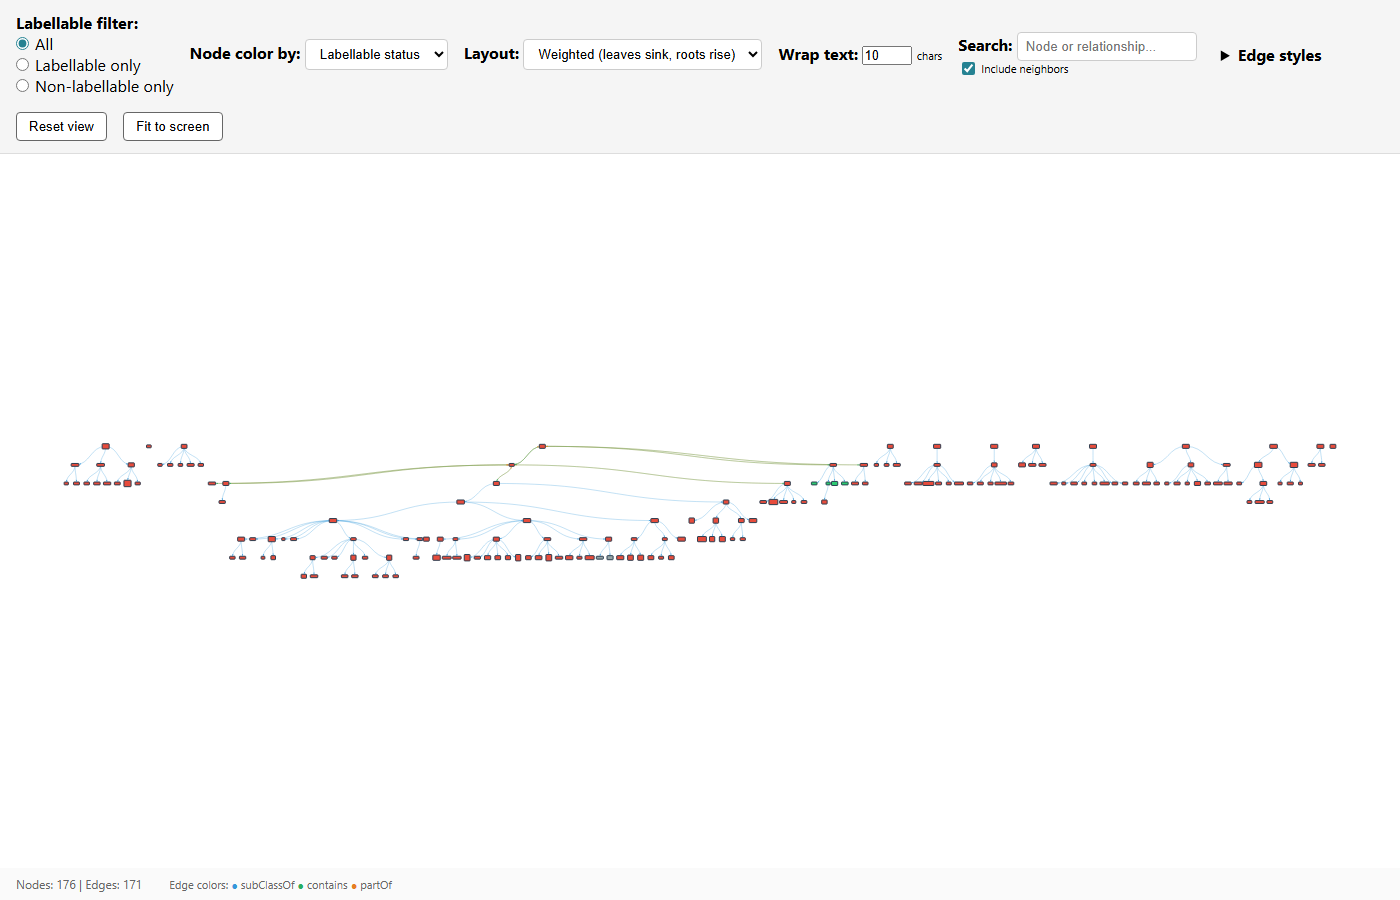
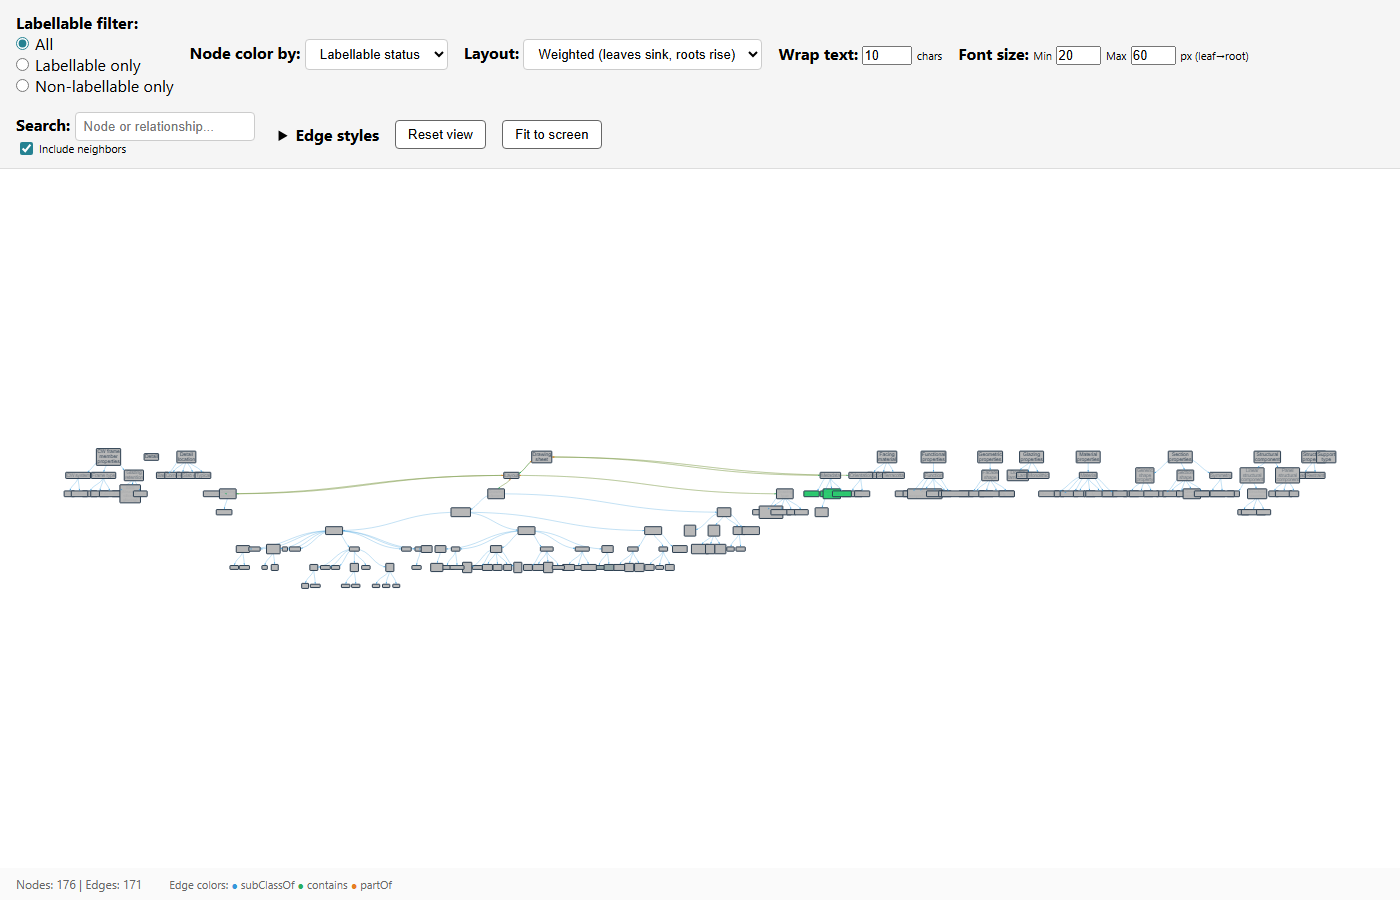
visualizer font size improvements

diff --git a/Visualizer/visualizer.html b/Visualizer/visualizer.html
@@ -66,6 +66,14 @@
             <span style="font-size: 11px;">chars</span>
         </div>
         <div>
+            <strong>Font size:</strong>
+            <span style="font-size: 11px;">Min</span>
+            <input type="number" id="minFontSize" min="8" max="96" value="20" style="width: 45px;">
+            <span style="font-size: 11px;">Max</span>
+            <input type="number" id="maxFontSize" min="8" max="96" value="60" style="width: 45px;">
+            <span style="font-size: 11px;">px (leaf→root)</span>
+        </div>
+        <div>
             <strong>Search:</strong>
             <div id="searchWrap">
                 <input type="text" id="searchQuery" placeholder="Node or relationship..." autocomplete="off" style="width: 180px; padding: 6px 8px; border-radius: 4px; border: 1px solid #ccc;">
@@ -97,7 +105,7 @@
 
         const COLORS = {
             labellable: '#2ecc71',
-            nonLabellable: '#e74c3c',
+            nonLabellable: '#b8b8b8',
             unknown: '#95a5a6',
             default: '#3498db'
         };
@@ -185,6 +193,45 @@
             if (lr === true) return COLORS.labellable;
             if (lr === false) return COLORS.nonLabellable;
             return COLORS.unknown;
+        }
+
+        function computeNodeDepths(nodeIds, edges) {
+            const hierarchyEdges = edges.filter(e =>
+                (e.type === 'subClassOf' || e.type === 'contains') && nodeIds.has(e.from) && nodeIds.has(e.to)
+            );
+            const children = {};
+            const parents = {};
+            const seenPairs = new Set();
+            hierarchyEdges.forEach(e => {
+                const key = e.from + '->' + e.to;
+                if (seenPairs.has(key)) return;
+                const reverseKey = e.to + '->' + e.from;
+                if (seenPairs.has(reverseKey)) return;
+                seenPairs.add(key);
+                (children[e.from] = children[e.from] || []).push(e.to);
+                (parents[e.to] = parents[e.to] || []).push(e.from);
+            });
+            const roots = [...nodeIds].filter(id => !parents[id] || parents[id].length === 0);
+            const depth = {};
+            roots.forEach(id => depth[id] = 0);
+            const queue = [...roots];
+            const seen = new Set(roots);
+            while (queue.length) {
+                const id = queue.shift();
+                (children[id] || []).filter(c => nodeIds.has(c)).forEach(cid => {
+                    if (!seen.has(cid)) {
+                        seen.add(cid);
+                        depth[cid] = (depth[id] || 0) + 1;
+                        queue.push(cid);
+                    } else {
+                        depth[cid] = Math.min(depth[cid] ?? 999, (depth[id] || 0) + 1);
+                    }
+                });
+            }
+            const unreached = [...nodeIds].filter(id => depth[id] === undefined);
+            unreached.forEach(id => { depth[id] = 0; });
+            const maxDepth = Math.max(0, ...Object.values(depth));
+            return { depth, maxDepth };
         }
 
         function computeWeightedLayout(nodeIds, edges, spacing) {
@@ -366,6 +413,9 @@
 
             const layoutMode = filter.layoutMode || 'weighted';
             const wrapChars = filter.wrapChars ?? 10;
+            const minFontSize = Math.max(8, Math.min(96, filter.minFontSize ?? 20));
+            const maxFontSize = Math.max(minFontSize, Math.min(96, filter.maxFontSize ?? 60));
+            const { depth, maxDepth } = computeNodeDepths(nodeIds, filteredEdges);
 
             let nodePositions = {};
             if (layoutMode === 'weighted') {
@@ -374,12 +424,16 @@
 
             const nodes = filteredNodes.map(n => {
                 const pos = nodePositions[n.id];
+                const d = depth[n.id] ?? 0;
+                const fontSize = maxDepth > 0
+                    ? Math.round(minFontSize + (maxFontSize - minFontSize) * (maxDepth - d) / maxDepth)
+                    : maxFontSize;
                 const node = {
                     id: n.id,
                     label: wrapText(n.label, wrapChars),
                     labellableRoot: n.labellableRoot,
                     color: { background: getNodeColor(n, filter.colorBy), border: '#2c3e50' },
-                    font: { size: 14 }
+                    font: { size: fontSize, color: '#2c3e50' }
                 };
                 if (pos) { node.x = pos.x; node.y = pos.y; }
                 return node;
@@ -401,11 +455,11 @@
 
         const container = document.getElementById('network');
         let network = null;
-        let currentFilter = { labellable: 'all', colorBy: 'labellable', wrapChars: 10, layoutMode: 'weighted', searchQuery: '', includeNeighbors: true };
+        let currentFilter = { labellable: 'all', colorBy: 'labellable', wrapChars: 10, minFontSize: 20, maxFontSize: 60, layoutMode: 'weighted', searchQuery: '', includeNeighbors: true };
 
         function getNetworkOptions(layoutMode) {
             const base = {
-                nodes: { shape: 'box', margin: 10 },
+                nodes: { shape: 'box', margin: 10, font: { size: 20, color: '#2c3e50' } },
                 edges: { smooth: { type: 'cubicBezier' }, arrows: 'to' }
             };
             if (layoutMode === 'weighted') {
@@ -441,12 +495,16 @@
         function applyFilter() {
             const layoutMode = document.getElementById('layoutMode').value;
             const wrapChars = parseInt(document.getElementById('wrapChars').value, 10) || 10;
+            const minFontSize = parseInt(document.getElementById('minFontSize').value, 10) || 20;
+            const maxFontSize = parseInt(document.getElementById('maxFontSize').value, 10) || 60;
             const searchEl = document.getElementById('searchQuery');
             const neighborsEl = document.getElementById('searchIncludeNeighbors');
             currentFilter = {
                 labellable: document.querySelector('input[name="labellable"]:checked').value,
                 colorBy: document.getElementById('colorBy').value,
                 wrapChars: wrapChars,
+                minFontSize: minFontSize,
+                maxFontSize: maxFontSize,
                 searchQuery: searchEl ? searchEl.value : '',
                 includeNeighbors: neighborsEl ? neighborsEl.checked : true,
                 edgeStyleConfig: getEdgeStyleConfig(),
@@ -489,6 +547,10 @@
         document.getElementById('layoutMode').addEventListener('change', applyFilter);
         document.getElementById('wrapChars').addEventListener('input', applyFilter);
         document.getElementById('wrapChars').addEventListener('change', applyFilter);
+        document.getElementById('minFontSize').addEventListener('input', applyFilter);
+        document.getElementById('minFontSize').addEventListener('change', applyFilter);
+        document.getElementById('maxFontSize').addEventListener('input', applyFilter);
+        document.getElementById('maxFontSize').addEventListener('change', applyFilter);
         (function initSearchAutocomplete() {
             const input = document.getElementById('searchQuery');
             const list = document.getElementById('searchAutocomplete');

diff --git a/Visualizer/convert_to_html_view.py b/Visualizer/convert_to_html_view.py
@@ -182,6 +182,14 @@ def generate_html(nodes: list[dict], edges: list[dict]) -> str:
             <span style="font-size: 11px;">chars</span>
         </div>
         <div>
+            <strong>Font size:</strong>
+            <span style="font-size: 11px;">Min</span>
+            <input type="number" id="minFontSize" min="8" max="96" value="20" style="width: 45px;">
+            <span style="font-size: 11px;">Max</span>
+            <input type="number" id="maxFontSize" min="8" max="96" value="60" style="width: 45px;">
+            <span style="font-size: 11px;">px (leaf→root)</span>
+        </div>
+        <div>
             <strong>Search:</strong>
             <div id="searchWrap">
                 <input type="text" id="searchQuery" placeholder="Node or relationship..." autocomplete="off" style="width: 180px; padding: 6px 8px; border-radius: 4px; border: 1px solid #ccc;">
@@ -213,7 +221,7 @@ def generate_html(nodes: list[dict], edges: list[dict]) -> str:
 
         const COLORS = {{
             labellable: '#2ecc71',
-            nonLabellable: '#e74c3c',
+            nonLabellable: '#b8b8b8',
             unknown: '#95a5a6',
             default: '#3498db'
         }};
@@ -301,6 +309,45 @@ def generate_html(nodes: list[dict], edges: list[dict]) -> str:
             if (lr === true) return COLORS.labellable;
             if (lr === false) return COLORS.nonLabellable;
             return COLORS.unknown;
+        }}
+
+        function computeNodeDepths(nodeIds, edges) {{
+            const hierarchyEdges = edges.filter(e =>
+                (e.type === 'subClassOf' || e.type === 'contains') && nodeIds.has(e.from) && nodeIds.has(e.to)
+            );
+            const children = {{}};
+            const parents = {{}};
+            const seenPairs = new Set();
+            hierarchyEdges.forEach(e => {{
+                const key = e.from + '->' + e.to;
+                if (seenPairs.has(key)) return;
+                const reverseKey = e.to + '->' + e.from;
+                if (seenPairs.has(reverseKey)) return;
+                seenPairs.add(key);
+                (children[e.from] = children[e.from] || []).push(e.to);
+                (parents[e.to] = parents[e.to] || []).push(e.from);
+            }});
+            const roots = [...nodeIds].filter(id => !parents[id] || parents[id].length === 0);
+            const depth = {{}};
+            roots.forEach(id => depth[id] = 0);
+            const queue = [...roots];
+            const seen = new Set(roots);
+            while (queue.length) {{
+                const id = queue.shift();
+                (children[id] || []).filter(c => nodeIds.has(c)).forEach(cid => {{
+                    if (!seen.has(cid)) {{
+                        seen.add(cid);
+                        depth[cid] = (depth[id] || 0) + 1;
+                        queue.push(cid);
+                    }} else {{
+                        depth[cid] = Math.min(depth[cid] ?? 999, (depth[id] || 0) + 1);
+                    }}
+                }});
+            }};
+            const unreached = [...nodeIds].filter(id => depth[id] === undefined);
+            unreached.forEach(id => {{ depth[id] = 0; }});
+            const maxDepth = Math.max(0, ...Object.values(depth));
+            return {{ depth, maxDepth }};
         }}
 
         function computeWeightedLayout(nodeIds, edges, spacing) {{
@@ -482,6 +529,9 @@ def generate_html(nodes: list[dict], edges: list[dict]) -> str:
 
             const layoutMode = filter.layoutMode || 'weighted';
             const wrapChars = filter.wrapChars ?? 10;
+            const minFontSize = Math.max(8, Math.min(96, filter.minFontSize ?? 20));
+            const maxFontSize = Math.max(minFontSize, Math.min(96, filter.maxFontSize ?? 60));
+            const {{ depth, maxDepth }} = computeNodeDepths(nodeIds, filteredEdges);
 
             let nodePositions = {{}};
             if (layoutMode === 'weighted') {{
@@ -490,12 +540,16 @@ def generate_html(nodes: list[dict], edges: list[dict]) -> str:
 
             const nodes = filteredNodes.map(n => {{
                 const pos = nodePositions[n.id];
+                const d = depth[n.id] ?? 0;
+                const fontSize = maxDepth > 0
+                    ? Math.round(minFontSize + (maxFontSize - minFontSize) * (maxDepth - d) / maxDepth)
+                    : maxFontSize;
                 const node = {{
                     id: n.id,
                     label: wrapText(n.label, wrapChars),
                     labellableRoot: n.labellableRoot,
                     color: {{ background: getNodeColor(n, filter.colorBy), border: '#2c3e50' }},
-                    font: {{ size: 14 }}
+                    font: {{ size: fontSize, color: '#2c3e50' }}
                 }};
                 if (pos) {{ node.x = pos.x; node.y = pos.y; }}
                 return node;
@@ -517,11 +571,11 @@ def generate_html(nodes: list[dict], edges: list[dict]) -> str:
 
         const container = document.getElementById('network');
         let network = null;
-        let currentFilter = {{ labellable: 'all', colorBy: 'labellable', wrapChars: 10, layoutMode: 'weighted', searchQuery: '', includeNeighbors: true }};
+        let currentFilter = {{ labellable: 'all', colorBy: 'labellable', wrapChars: 10, minFontSize: 20, maxFontSize: 60, layoutMode: 'weighted', searchQuery: '', includeNeighbors: true }};
 
         function getNetworkOptions(layoutMode) {{
             const base = {{
-                nodes: {{ shape: 'box', margin: 10 }},
+                nodes: {{ shape: 'box', margin: 10, font: {{ size: 20, color: '#2c3e50' }} }},
                 edges: {{ smooth: {{ type: 'cubicBezier' }}, arrows: 'to' }}
             }};
             if (layoutMode === 'weighted') {{
@@ -557,12 +611,16 @@ def generate_html(nodes: list[dict], edges: list[dict]) -> str:
         function applyFilter() {{
             const layoutMode = document.getElementById('layoutMode').value;
             const wrapChars = parseInt(document.getElementById('wrapChars').value, 10) || 10;
+            const minFontSize = parseInt(document.getElementById('minFontSize').value, 10) || 20;
+            const maxFontSize = parseInt(document.getElementById('maxFontSize').value, 10) || 60;
             const searchEl = document.getElementById('searchQuery');
             const neighborsEl = document.getElementById('searchIncludeNeighbors');
             currentFilter = {{
                 labellable: document.querySelector('input[name="labellable"]:checked').value,
                 colorBy: document.getElementById('colorBy').value,
                 wrapChars: wrapChars,
+                minFontSize: minFontSize,
+                maxFontSize: maxFontSize,
                 searchQuery: searchEl ? searchEl.value : '',
                 includeNeighbors: neighborsEl ? neighborsEl.checked : true,
                 edgeStyleConfig: getEdgeStyleConfig(),
@@ -605,6 +663,10 @@ def generate_html(nodes: list[dict], edges: list[dict]) -> str:
         document.getElementById('layoutMode').addEventListener('change', applyFilter);
         document.getElementById('wrapChars').addEventListener('input', applyFilter);
         document.getElementById('wrapChars').addEventListener('change', applyFilter);
+        document.getElementById('minFontSize').addEventListener('input', applyFilter);
+        document.getElementById('minFontSize').addEventListener('change', applyFilter);
+        document.getElementById('maxFontSize').addEventListener('input', applyFilter);
+        document.getElementById('maxFontSize').addEventListener('change', applyFilter);
         (function initSearchAutocomplete() {{
             const input = document.getElementById('searchQuery');
             const list = document.getElementById('searchAutocomplete');

diff --git a/Visualizer/screenshot_visualizer.py b/Visualizer/screenshot_visualizer.py
@@ -15,7 +15,12 @@ def main() -> None:
         browser = p.chromium.launch()
         page = browser.new_page(viewport={"width": 1400, "height": 900})
         page.goto(url, wait_until="networkidle")
-        page.wait_for_timeout(800)  # Allow vis-network to render and fit
+        # Wait for graph to render (node count > 0)
+        page.wait_for_function(
+            "document.getElementById('nodeCount')?.textContent !== '0'",
+            timeout=10000,
+        )
+        page.wait_for_timeout(500)  # Allow fit() to complete
         page.screenshot(path=OUTPUT_PNG, full_page=True)
         browser.close()
     print(f"Screenshot saved to {OUTPUT_PNG}")
